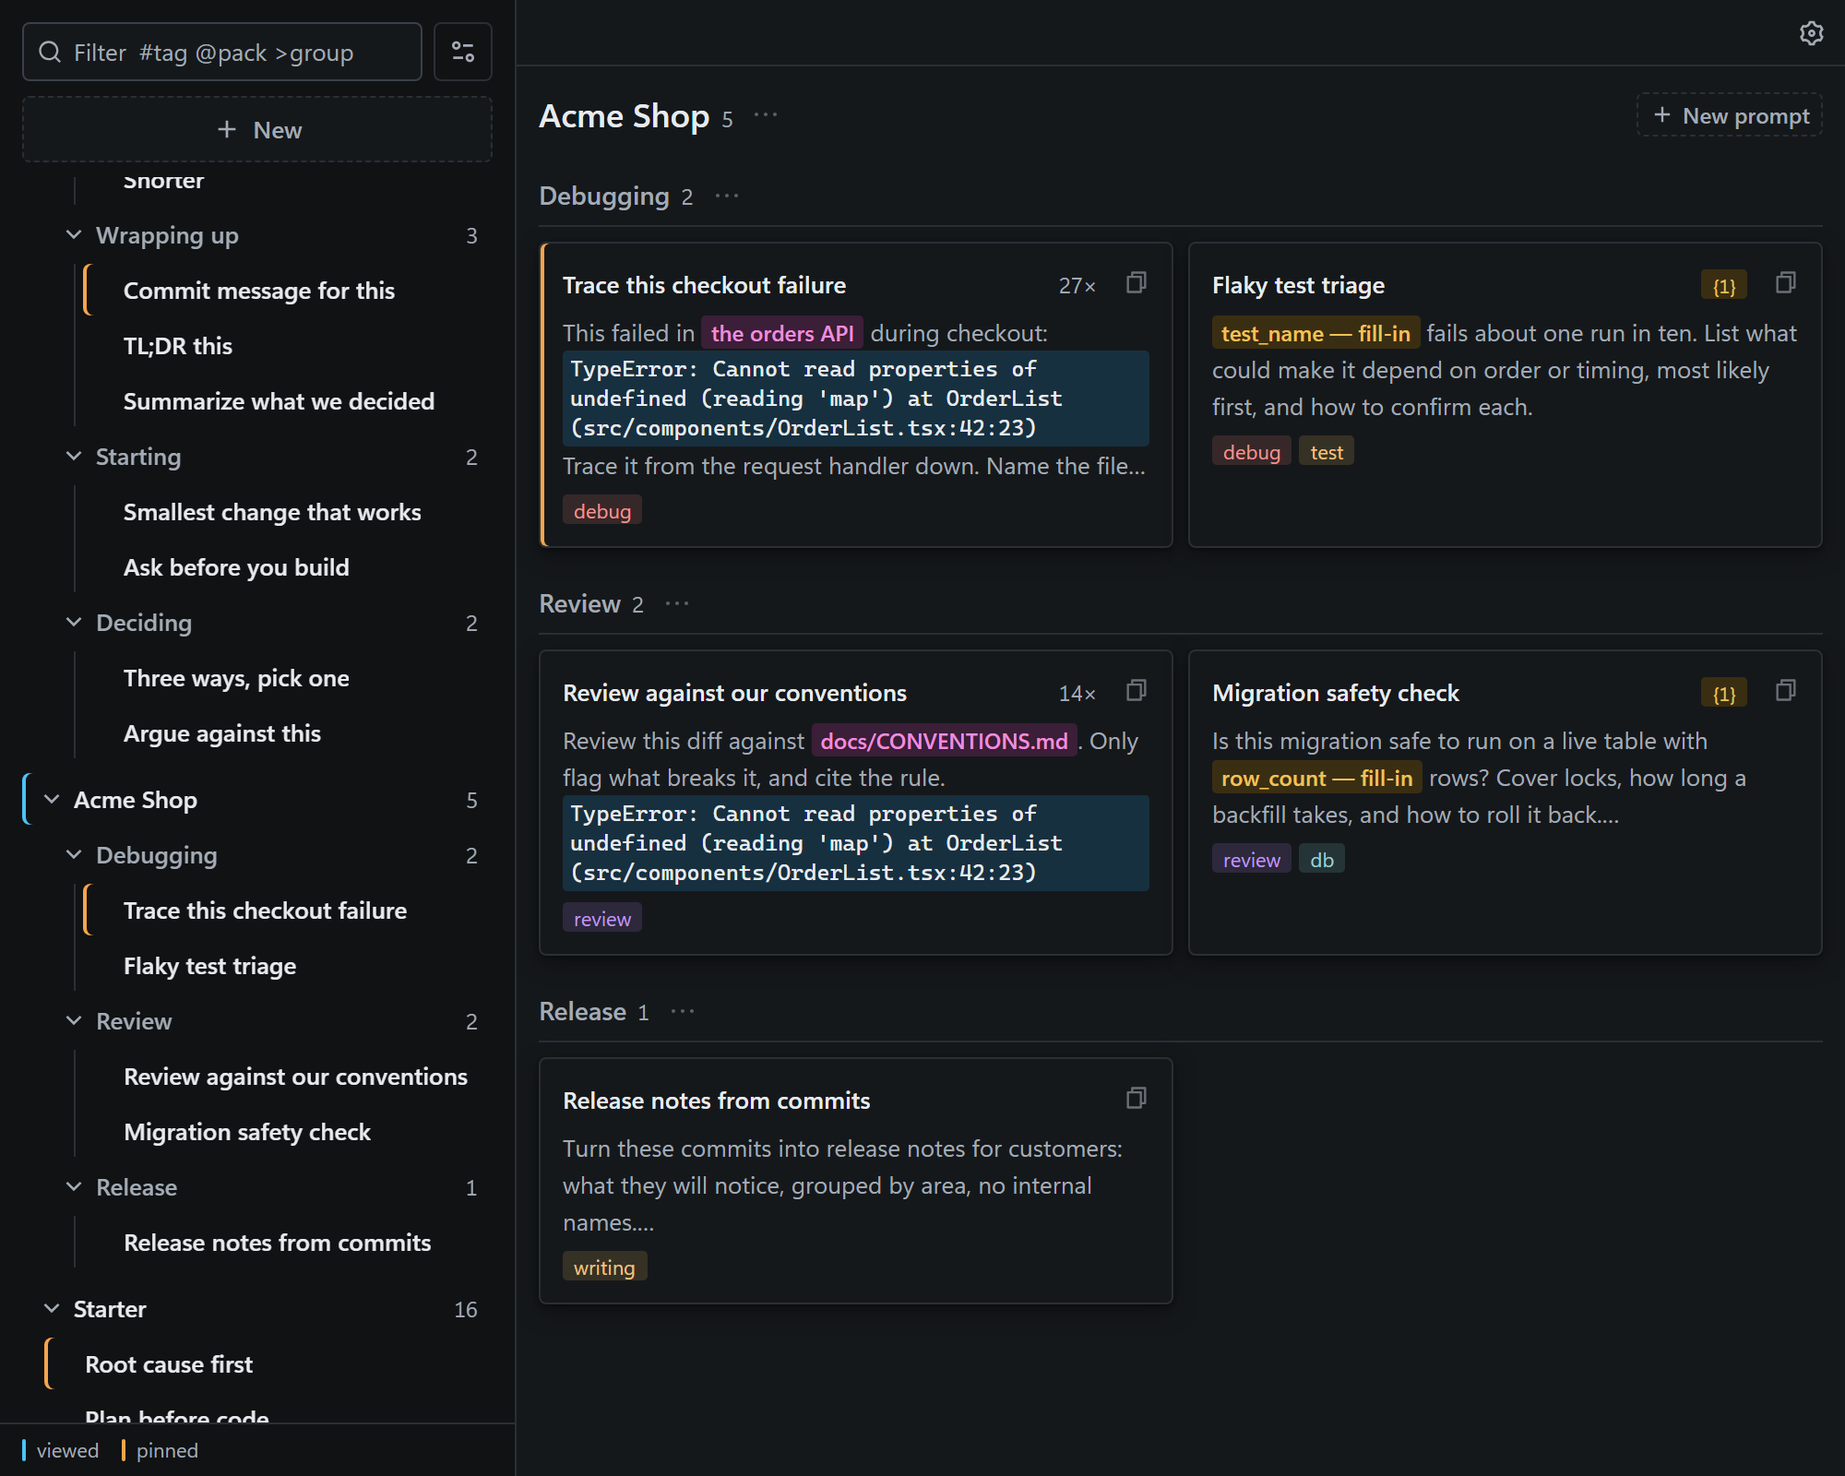
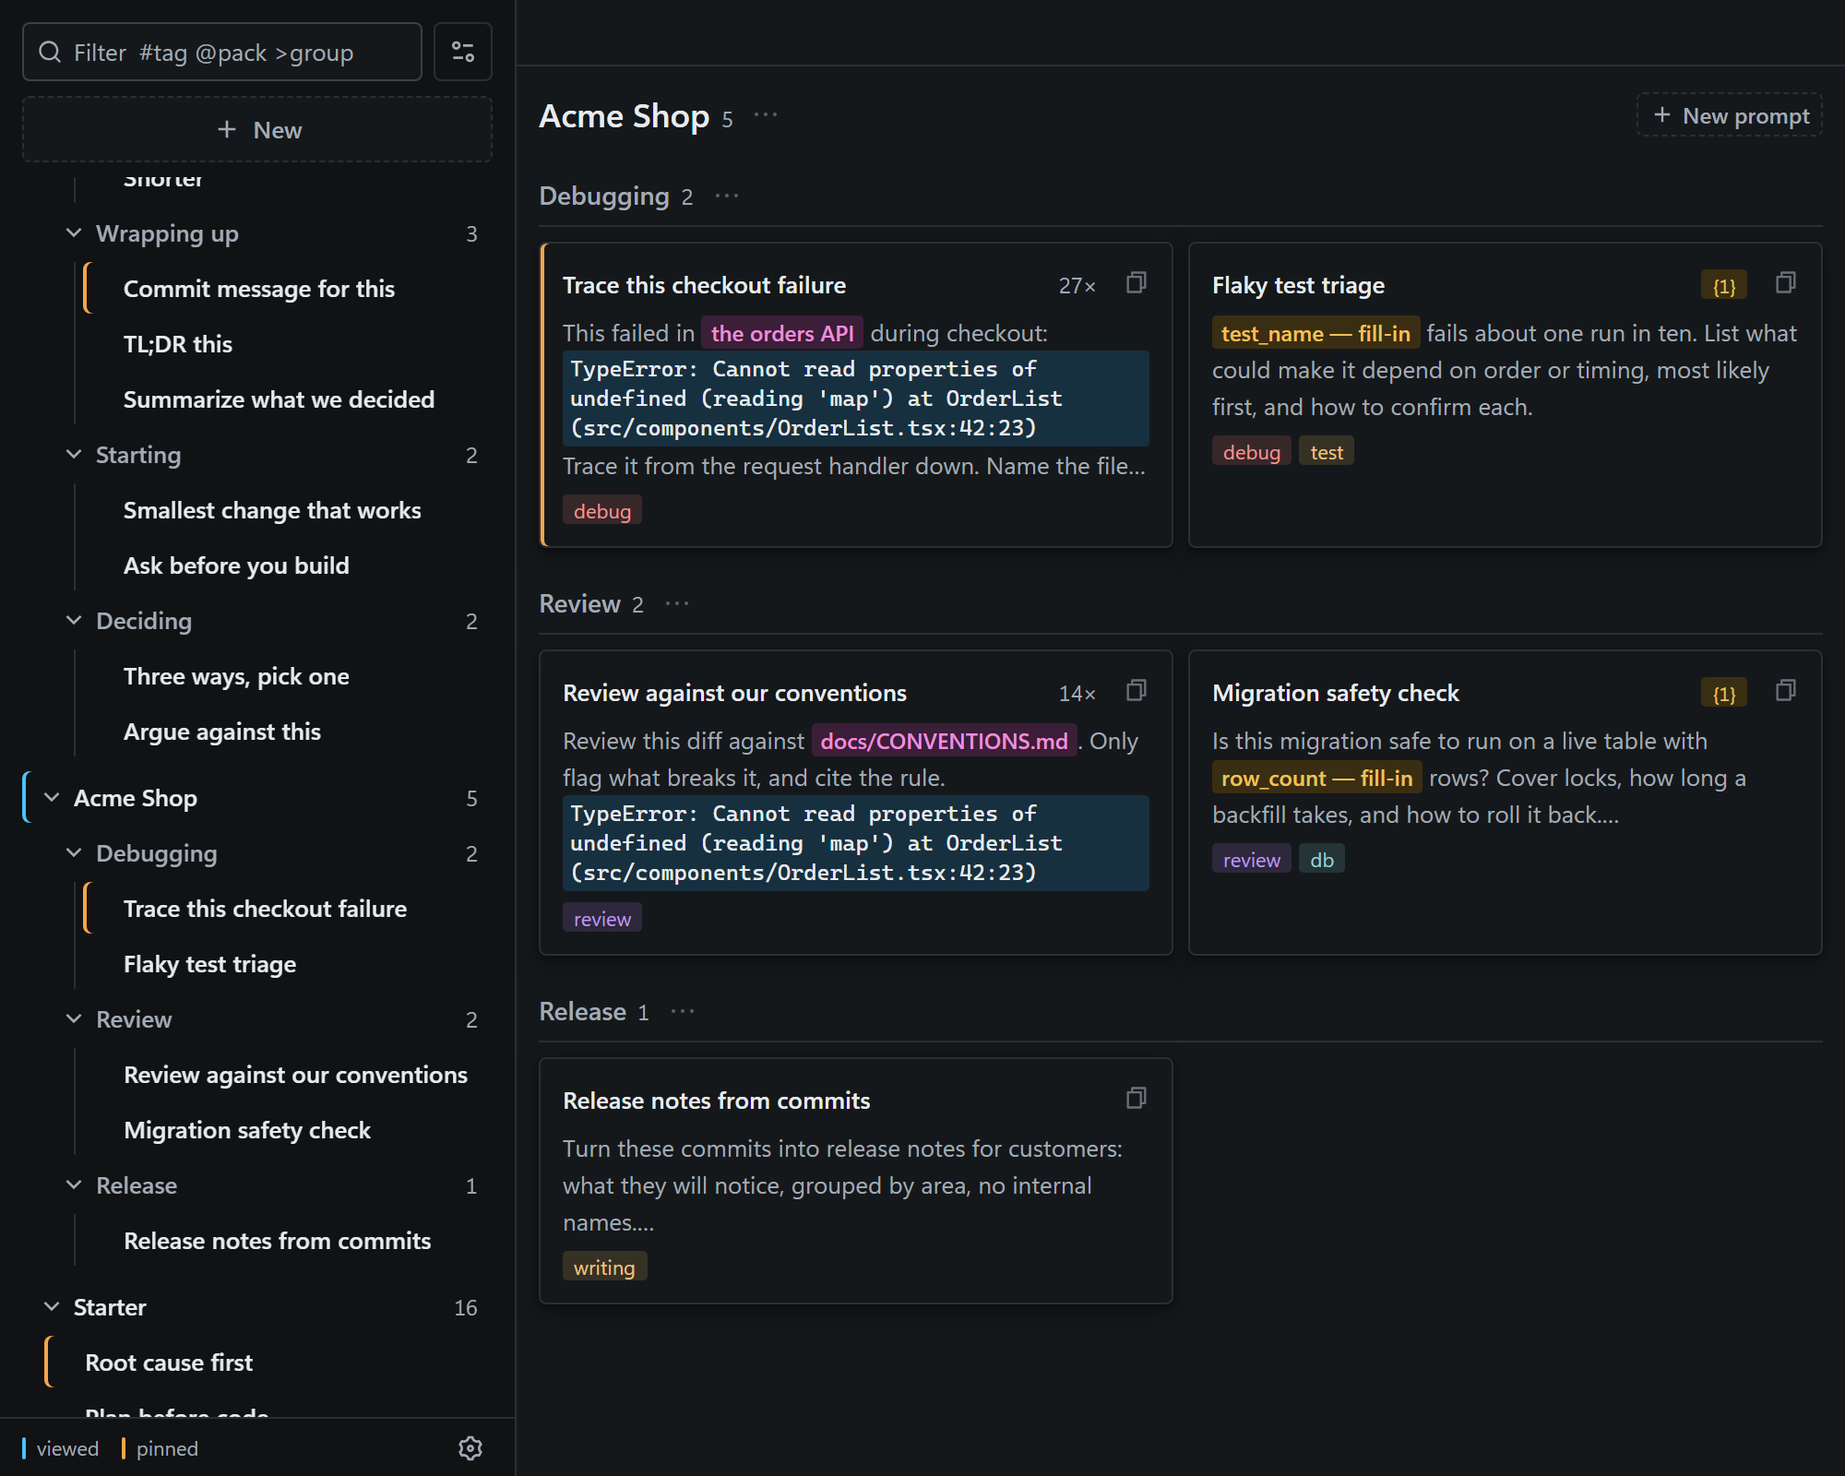
Manager: the crumb line moves into the bar above the pane, the gear into the sidebar's foot
The bar above the pane held the Settings gear alone; the editor's first
line was the crumbs. Now the bar is the open prompt's crumb line
(EditorCrumbs: where it sits and the Move-to chevron at the left; the
use count, the Pin toggle and the ⋯ menu at the right, on the line a
card's own controls end on), and it is empty while the pane shows an
overview or Settings. The gear sits at the right of the sidebar's foot,
beside the bar legend, with the same label, pressed state and hotkey
tooltip. The crumbs, the title and a card's header text start on one
line: the bar and the title take the 13 px a card's border and padding
take. CLAUDE.md's convention line and BEHAVIOR.md follow; screenshots
regenerated.

diff --git a/src/manager/Editor.tsx b/src/manager/Editor.tsx
@@ -97,6 +97,102 @@ export function Editor() {
   return <EditorInner snippet={snippet} />
 }
 
+// The crumb line, in the bar above the pane (App.tsx): where the prompt
+// sits at the left (pack › group, each crumb opening that overview, the
+// chevron the Move-to menu), and at the right its use count, the Pin
+// toggle and the ⋯ menu. It was the editor's first line; the bar above
+// the pane held the Settings gear alone, and the crumbs are what the bar
+// is for (2026-10-10). Nothing while the pane shows something else.
+// Where a menu opened from a button lands: under its left edge
+const atButton = (e: React.MouseEvent<HTMLElement>) => {
+  const r = e.currentTarget.getBoundingClientRect()
+  return [r.left, r.bottom + 4] as const
+}
+
+export function EditorCrumbs() {
+  const m = useManager()
+  const menus = useLibraryMenus({ surface: "editor" })
+  const snippet = m.snippets.find((s) => s.id === m.activeId)
+  if (!snippet || m.settingsOpen || m.selection.size > 1 || m.view.kind === "overview" || m.view.kind === "all") return null
+  const pack = snippet.pack || DEFAULT_PACK
+  const group = snippet.group || ""
+  return (
+    <>
+    {/* Where this prompt sits, at the left: each crumb shows that pack's
+        or group's prompts beside the sidebar (Escape goes to the nearest
+        one), and the chevron moves it. At the right, in one group: the use
+        count, the Pin toggle (pressed while pinned, in the pin's Warn) and
+        the ⋯ menu, 24 px tall each and 8 px apart. The line is the UI
+        size: at 12 px it read as a caption, and "pinned" as a word in the
+        line said a state without offering the switch (2026-10-10). */}
+    <div className="flex min-w-0 flex-1 items-center gap-1 text-ui text-muted-foreground">
+      <button
+        type="button"
+        className="min-w-0 cursor-pointer truncate rounded-sm font-medium hover:text-foreground focus-ring"
+        title={`Show the prompts in ${pack}${group ? "" : " (Esc)"}`}
+        onClick={() => m.openOverview({ pack })}
+      >
+        <bdi>{pack}</bdi>
+      </button>
+      {group && (
+        <>
+          <span aria-hidden>›</span>
+          <button
+            type="button"
+            className="min-w-0 cursor-pointer truncate rounded-sm font-medium hover:text-foreground focus-ring"
+            title={`Show the prompts in ${group} (Esc)`}
+            onClick={() => m.openOverview({ pack, group })}
+          >
+            <bdi>{group}</bdi>
+          </button>
+        </>
+      )}
+      <Button
+        variant="ghost"
+        size="icon-sm"
+        aria-label="Move to another pack or group"
+        aria-haspopup="menu"
+        title="Move to…"
+        className="text-muted-foreground"
+        onClick={(e) => menus.openMoveTo(...atButton(e), snippet.id)}
+      >
+        <RiArrowDownSLine className="size-4" />
+      </Button>
+      <span className="ml-auto flex shrink-0 items-center gap-2">
+        {snippet.uses > 0 && (
+          <span className="tabular-nums" title={`Pasted ${C.plural(snippet.uses, "time")}`}>
+            {snippet.uses}×
+          </span>
+        )}
+        <Button
+          variant="ghost"
+          size="sm"
+          aria-pressed={!!snippet.pinned}
+          title={snippet.pinned ? "Unpin: leaves the popup's top slots" : "Pin: always in the popup's top slots"}
+          className={snippet.pinned ? "text-(--warn) hover:text-(--warn)" : "text-muted-foreground"}
+          onClick={() => menus.togglePin([snippet.id])}
+        >
+          {snippet.pinned ? <RiPushpinFill aria-hidden /> : <RiPushpinLine aria-hidden />}
+          {snippet.pinned ? "Pinned" : "Pin"}
+        </Button>
+        <Button
+          variant="ghost"
+          size="icon-sm"
+          aria-label="Prompt actions"
+          aria-haspopup="menu"
+          title="Pin, move, tag, export, delete"
+          className="text-muted-foreground"
+          onClick={(e) => menus.openRowCtx(...atButton(e), new Set([snippet.id]))}
+        >
+          <RiMoreLine className="size-4" />
+        </Button>
+      </span>
+    </div>
+      {menus.element}
+    </>
+  )
+}
+
 // The editor is the prompt and little else: a crumb line that says where
 // it sits (and moves it), the title, the text, its tags, and the
 // placeholders the text holds. Placement is the store's, not a field: the
@@ -115,8 +211,6 @@ function EditorInner({ snippet }: { snippet: Snippet }) {
   const [configValues, setConfigValues] = useState<Record<string, string>>({ ...(snippet.configValues || {}) })
   const textRef = useRef<HTMLTextAreaElement>(null)
   const isDraft = C.isEmptyDraft(snippet)
-  const pack = snippet.pack || DEFAULT_PACK
-  const group = snippet.group || ""
 
   // Autosave: edits persist on a short debounce — no Save button, no lost drafts
   const saveTimer = useRef<ReturnType<typeof setTimeout> | null>(null)
@@ -323,92 +417,14 @@ function EditorInner({ snippet }: { snippet: Snippet }) {
   // typed (allTags is by count, most first)
   const otherTags = m.allTags().filter((t) => !tagList.includes(t))
 
-  // ---- Actions: the prompt's own menu, the one its row's right-click
-  // opens (Pin, Move to, Add tag, Export, Delete), less Move up and down,
-  // which only the sidebar has rows for. A ⋯ that offered Pin and Delete
-  // alone was a second, smaller menu for the same prompt.
-  const atButton = (e: React.MouseEvent<HTMLElement>) => {
-    const r = e.currentTarget.getBoundingClientRect()
-    return [r.left, r.bottom + 4] as const
-  }
-
   return (
     <div className="flex min-w-0 flex-1 flex-col gap-3 overflow-y-auto p-3">
-      {/* Where this prompt sits, at the left: each crumb shows that pack's
-          or group's prompts beside the sidebar (Escape goes to the nearest
-          one), and the chevron moves it. At the right, in one group: the use
-          count, the Pin toggle (pressed while pinned, in the pin's Warn) and
-          the ⋯ menu, 24 px tall each and 8 px apart. The line is the UI
-          size: at 12 px it read as a caption, and "pinned" as a word in the
-          line said a state without offering the switch (2026-10-10). */}
-      <div className="flex min-w-0 items-center gap-1 text-ui text-muted-foreground">
-        <button
-          type="button"
-          className="min-w-0 cursor-pointer truncate rounded-sm font-medium hover:text-foreground focus-ring"
-          title={`Show the prompts in ${pack}${group ? "" : " (Esc)"}`}
-          onClick={() => m.openOverview({ pack })}
-        >
-          <bdi>{pack}</bdi>
-        </button>
-        {group && (
-          <>
-            <span aria-hidden>›</span>
-            <button
-              type="button"
-              className="min-w-0 cursor-pointer truncate rounded-sm font-medium hover:text-foreground focus-ring"
-              title={`Show the prompts in ${group} (Esc)`}
-              onClick={() => m.openOverview({ pack, group })}
-            >
-              <bdi>{group}</bdi>
-            </button>
-          </>
-        )}
-        <Button
-          variant="ghost"
-          size="icon-sm"
-          aria-label="Move to another pack or group"
-          aria-haspopup="menu"
-          title="Move to…"
-          className="text-muted-foreground"
-          onClick={(e) => menus.openMoveTo(...atButton(e), snippet.id)}
-        >
-          <RiArrowDownSLine className="size-4" />
-        </Button>
-        <span className="ml-auto flex shrink-0 items-center gap-2">
-          {snippet.uses > 0 && (
-            <span className="tabular-nums" title={`Pasted ${C.plural(snippet.uses, "time")}`}>
-              {snippet.uses}×
-            </span>
-          )}
-          <Button
-            variant="ghost"
-            size="sm"
-            aria-pressed={!!snippet.pinned}
-            title={snippet.pinned ? "Unpin: leaves the popup's top slots" : "Pin: always in the popup's top slots"}
-            className={snippet.pinned ? "text-(--warn) hover:text-(--warn)" : "text-muted-foreground"}
-            onClick={() => menus.togglePin([snippet.id])}
-          >
-            {snippet.pinned ? <RiPushpinFill aria-hidden /> : <RiPushpinLine aria-hidden />}
-            {snippet.pinned ? "Pinned" : "Pin"}
-          </Button>
-          <Button
-            variant="ghost"
-            size="icon-sm"
-            aria-label="Prompt actions"
-            aria-haspopup="menu"
-            title="Pin, move, tag, export, delete"
-            className="text-muted-foreground"
-            onClick={(e) => menus.openRowCtx(...atButton(e), new Set([snippet.id]))}
-          >
-            <RiMoreLine className="size-4" />
-          </Button>
-        </span>
-      </div>
-
       {/* The title, alone on its line at the heading size nothing else in
           the pane uses. The autosave caption sits at its tail, over the room
-          a title leaves, so it takes no width of its own. */}
-      <span className="relative flex min-w-0">
+          a title leaves, so it takes no width of its own. Inset 13 px (a
+          card's border and padding), so the title's text and the "Prompt"
+          header under it start on one line (2026-10-10). */}
+      <span className="relative flex min-w-0 px-[13px]">
         <input
           autoFocus={isDraft}
           onFocus={(e) => {

diff --git a/src/manager/App.tsx b/src/manager/App.tsx
@@ -1,10 +1,9 @@
 import { useCallback, useEffect, useMemo, useRef, useState } from "react"
 import { invoke } from "@tauri-apps/api/core"
 import { listen } from "@tauri-apps/api/event"
-import { RiCloseLine, RiSettings3Line } from "@remixicon/react"
+import { RiCloseLine } from "@remixicon/react"
 import { Toaster } from "@/components/ui/sonner"
 import { Button } from "@/components/ui/button"
-import { cn } from "@/lib/utils"
 import { Keys } from "@/components/prompt-bits"
 import { C, isStoreError, type Library, type OrderBy, type PackMeta, type Snippet, type SnippetEdit } from "@/lib/core"
 import { applyPrefs } from "@/lib/prefs"
@@ -13,7 +12,7 @@ import { type Config, DEFAULT_PACK, defaultPackFor, isLockedIn, packNames as pac
 import { useFolds } from "./folds"
 import { say, sayErr, sayPersistent, sayUndo, undoLast } from "./status"
 import { Sidebar } from "./Sidebar"
-import { Editor } from "./Editor"
+import { Editor, EditorCrumbs } from "./Editor"
 import { Overview } from "./Overview"
 import { Settings } from "./Settings"
 import { GenerateDialog } from "./GenerateDialog"
@@ -648,20 +647,14 @@ export function App() {
         <main className="flex min-h-0 flex-1 overflow-hidden">
           <Sidebar />
           <div className="flex min-w-0 flex-1 flex-col">
-            {/* App-level controls live above the pane, not in the library's
-                sidebar: today that is the Settings gear alone */}
-            <div className="flex h-9 shrink-0 items-center justify-end border-b border-border px-2">
-              <Button
-                variant="ghost"
-                size="icon-xs"
-                aria-label="Settings"
-                aria-pressed={settingsOpen}
-                title={fmtHotkey ? `Settings — popup hotkey: ${fmtHotkey}` : "Settings"}
-                className={cn("text-muted-foreground", settingsOpen && "bg-secondary text-foreground")}
-                onClick={() => showSettings(!settingsOpen)}
-              >
-                <RiSettings3Line className="size-4" />
-              </Button>
+            {/* The bar above the pane is the open prompt's crumb line (where
+                it sits, its use count, Pin, its menu); the Settings gear
+                that stood here alone lives in the sidebar's foot since
+                2026-10-10. Its side padding is the pane's 12 px plus the
+                13 px a card's border and padding take, so the crumbs,
+                the title and a card's header text start on one line. */}
+            <div className="flex h-9 shrink-0 items-center border-b border-border px-[25px]">
+              <EditorCrumbs />
             </div>
             {settingsOpen ? (
               <Settings />

diff --git a/src/manager/Sidebar.tsx b/src/manager/Sidebar.tsx
@@ -5,6 +5,7 @@ import {
   RiEqualizer2Line,
   RiLock2Fill,
   RiSearchLine,
+  RiSettings3Line,
 } from "@remixicon/react"
 import { C, type OrderBy, type Snippet, type TreeRow } from "@/lib/core"
 import { cn } from "@/lib/utils"
@@ -1131,22 +1132,33 @@ export function Sidebar() {
         </div>
       </div>
 
-      {/* The legend for the two bars a row can carry (the theme lives in
-          Settings and the gear sits at the top-right of the pane, so this
-          is the sidebar's one footer, and it is about the library) */}
-      <div aria-hidden className="flex shrink-0 items-center gap-3 border-t border-border px-3 py-1.5 text-micro text-muted-foreground">
-        <span className="flex items-center gap-1.5">
+      {/* The foot: the legend for the two bars a row can carry, and the
+          Settings gear at the right (it stood alone in the bar above the
+          pane until 2026-10-10; that bar is the crumb line's now). The
+          legend is decoration to assistive tech; the gear is not. */}
+      <div className="flex h-8 shrink-0 items-center gap-3 border-t border-border px-3 text-micro text-muted-foreground">
+        <span aria-hidden className="flex items-center gap-1.5">
           <span className="h-3 w-0.5 rounded-full bg-(--focus)" />
           viewed
         </span>
-        <span className="flex items-center gap-1.5">
+        <span aria-hidden className="flex items-center gap-1.5">
           <span className="h-3 w-0.5 rounded-full bg-(--warn)" />
           pinned
         </span>
+        <button
+          type="button"
+          aria-label="Settings"
+          aria-pressed={m.settingsOpen}
+          title={m.hotkey ? `Settings — popup hotkey: ${C.fmtHotkey(m.hotkey)}` : "Settings"}
+          className={cn(
+            "ml-auto flex size-6 cursor-pointer items-center justify-center rounded-md hover:bg-hover hover:text-foreground focus-ring",
+            m.settingsOpen && "bg-secondary text-foreground"
+          )}
+          onClick={() => m.showSettings(!m.settingsOpen)}
+        >
+          <RiSettings3Line className="size-4" />
+        </button>
       </div>
-      {/* The theme lives in Settings (Appearance) and the gear
-          sits at the top-right of the pane, so the sidebar is the library
-          and nothing else */}
       {menus}
       {display.element}
       <div role="status" aria-live="polite" className="sr-only">{announce}</div>

diff --git a/BEHAVIOR.md b/BEHAVIOR.md
@@ -147,7 +147,8 @@ not structure, per the design system's "ink first, hue second"; so the
 `heading` tokens are ink colours. In the overview a group is a heading over
 a hairline, not a panel, so it doesn't repeat its pack's look.
 
-**The editor is the prompt and little else.** A crumb line says where
+**The editor is the prompt and little else.** The bar above the pane
+carries its crumb line (`EditorCrumbs`), which says where
 the prompt sits (pack › group at the left, each crumb opening that
 overview, the chevron after them opening the same Move-to menu a row's
 right-click does, with the prompt's own place checked) and, in one group
@@ -1543,9 +1544,11 @@ the theme is `palette`, the names from before there was a second axis;
 renaming the key would have meant a migration for a label. With the footer
 gone and the "Prompts" heading with it (the window is Promptline and the
 list is visibly prompts; the landmark keeps its name through
-`aria-label`), the sidebar is search, Display, New and the tree, nothing
-else; the Settings gear sits at the top-right of the pane, above whatever
-the pane shows.
+`aria-label`), the sidebar is search, Display, New, the tree and a foot
+that holds the bar legend and the Settings gear; the bar above the pane
+is the open prompt's crumb line. Until 2026-10-10 the gear stood alone
+in that bar and the crumbs were the editor's first line; the user wanted
+the crumbs up there and the gear out of the pane's way.
 
 `.dark` on `<html>` swaps CSS custom properties. It also sets `color-scheme`,
 which is what makes native UI the webview paints itself — scrollbars, `<select>`

diff --git a/CLAUDE.md b/CLAUDE.md
@@ -475,9 +475,9 @@ Settings → About.
 - Names the user wrote (packs, groups, prompt titles) are shown as typed;
   uppercase is for the app's own section labels (`name-label` vs
   `section-label`).
-- The sidebar is the library only (search, Display, New, the tree);
-  app-level controls sit above the pane; appearance choices live in
-  Settings.
+- The sidebar is the library (search, Display, New, the tree) plus its
+  foot (the bar legend and the Settings gear); the bar above the pane is
+  the open prompt's crumb line; appearance choices live in Settings.
 - Every Tauri command the webview can call takes no path it hasn't been
   given by Rust (`read_pack_file`, `show_in_folder` refuse paths outside
   the data folder; `open_data_dir` takes none).
